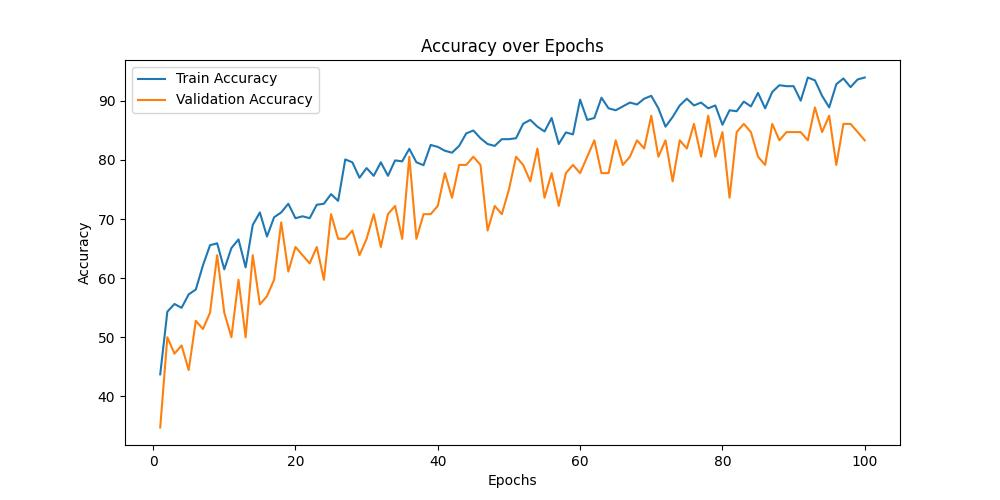
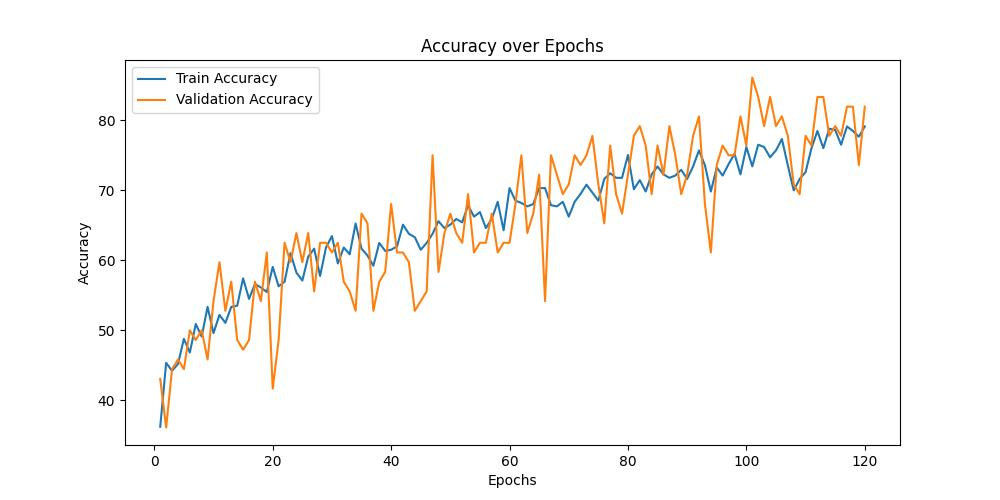
final Changes

diff --git a/dataloader/dataloader.py b/dataloader/dataloader.py
@@ -41,23 +41,36 @@ def get_transformation(img_size = 128):
     #     transforms.Normalize(mean=[0.485, 0.456, 0.406],
     #                         std=[0.229, 0.224, 0.225])
     # ])
+    # train_transform = transforms.Compose([
+    #     transforms.Resize((img_size, img_size)),
+    #     transforms.RandomHorizontalFlip(p=0.5),
+        
+    #     # Using RandomAffine for a richer set of geometric augmentations
+    #     transforms.RandomAffine(degrees=15, translate=(0.1, 0.1), scale=(0.9, 1.1)),
+        
+    #     # Jitter and blur for pixel-level robustness
+    #     transforms.ColorJitter(brightness=0.2, contrast=0.2),
+    #     transforms.GaussianBlur(kernel_size=(5, 9), sigma=(0.1, 5.)),
+        
+    #     # Standard conversion and normalization
+    #     transforms.ToTensor(),
+    #     transforms.Normalize(mean=[0.485, 0.456, 0.406],
+    #                         std=[0.229, 0.224, 0.225]),
+        
+    #     # Occlusion technique to improve generalization (applied on the tensor)
+    #     transforms.RandomErasing(p=0.5, scale=(0.02, 0.2)) 
+    # ])
+
     train_transform = transforms.Compose([
         transforms.Resize((img_size, img_size)),
         transforms.RandomHorizontalFlip(p=0.5),
-        
-        # Using RandomAffine for a richer set of geometric augmentations
+        transforms.RandomPerspective(distortion_scale=0.2, p=0.5), # More complex geometric changes
         transforms.RandomAffine(degrees=15, translate=(0.1, 0.1), scale=(0.9, 1.1)),
-        
-        # Jitter and blur for pixel-level robustness
         transforms.ColorJitter(brightness=0.2, contrast=0.2),
         transforms.GaussianBlur(kernel_size=(5, 9), sigma=(0.1, 5.)),
-        
-        # Standard conversion and normalization
+        transforms.TrivialAugmentWide(interpolation=transforms.InterpolationMode.BILINEAR),
         transforms.ToTensor(),
-        transforms.Normalize(mean=[0.485, 0.456, 0.406],
-                            std=[0.229, 0.224, 0.225]),
-        
-        # Occlusion technique to improve generalization (applied on the tensor)
+        transforms.Normalize(mean=[0.485, 0.456, 0.406], std=[0.229, 0.224, 0.225]),
         transforms.RandomErasing(p=0.5, scale=(0.02, 0.2)) 
     ])
 
